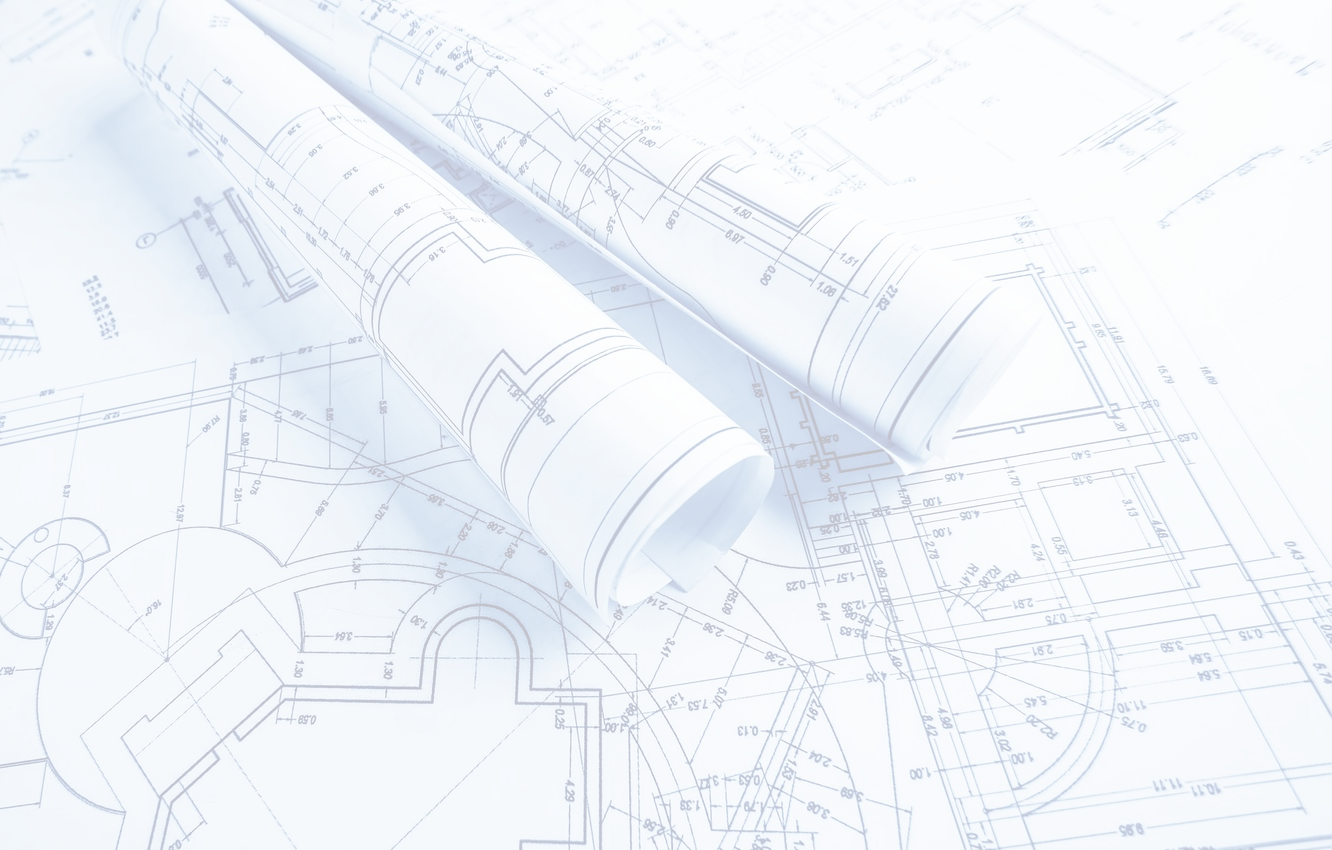
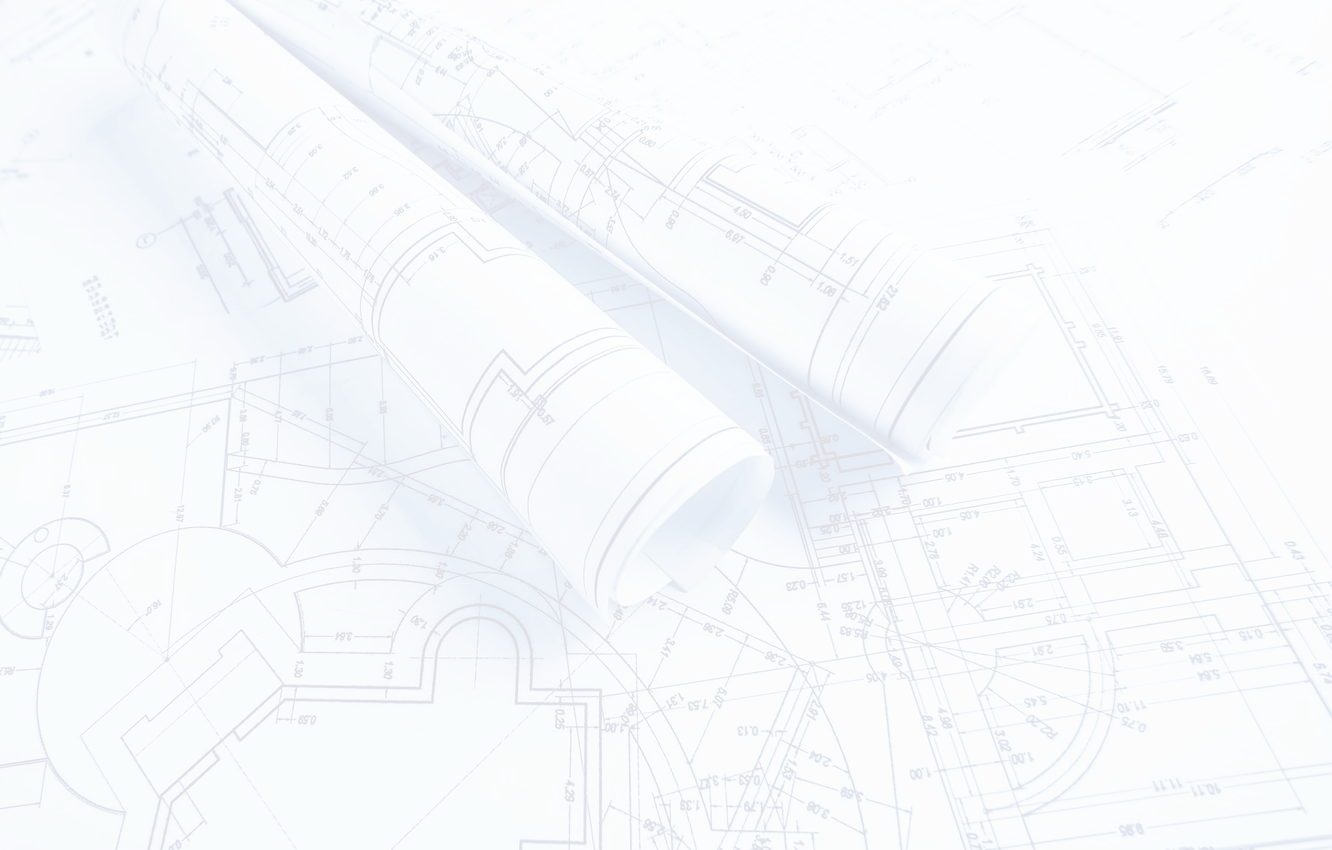
fix

diff --git a/src/componetnts/calculations/CalcPipe.js b/src/componetnts/calculations/CalcPipe.js
@@ -1,13 +1,16 @@
-import React, { useState, useEffect } from "react";
+import React, { useState } from "react";
 import { ScrollView, View, Text, Image, TextInput, StyleSheet } from 'react-native';
 
-import { COLOR, STYLES, TEXT } from '../../types/theme'
+import { COLOR, STYLE, TEXT } from '../../styles'
 
 export default function CalcPipe() {
 
    const [dia, setDia] = useState(null);
    const [thin, setThin] = useState(null);
    const [value1, setValue1] = useState('-');
+   const [value2, setValue2] = useState('-');
+   const [value3, setValue3] = useState('-');
+   const [value4, setValue4] = useState('-');
 
    const setDiaHandler = (dia) => {
       setDia(dia);
@@ -20,16 +23,39 @@ export default function CalcPipe() {
    };
 
    const calc = (dia, thin) => {
-      let val1 = (Math.PI * ((+dia / 10) ** 4 - (+dia / 10 - 2 * (+thin / 10)) ** 4) / 64).toFixed(0);
-      if (val1 <= 0 || isNaN(val1)) val1 = '-'
-      setValue1(val1);
 
+      let val1 = (Math.PI * ((+dia / 10) ** 4 - (+dia / 10 - 2 * (+thin / 10)) ** 4) / 64).toFixed(0);
+      let val2 = (Math.PI * ((+dia / 10) ** 2 - (+dia / 10 - 2 * (+thin / 10)) ** 2) / 4).toFixed(2);
+      let val3 = (Math.PI * ((+dia / 10) ** 4 - (+dia / 10 - 2 * (+thin / 10)) ** 4) / 32 / (+dia)).toFixed(2);
+      let val4 = ((val1 / val2) ** 0.5).toFixed(2);
+
+      if (+dia <= +thin || isNaN(+dia) || isNaN(+thin) || +dia === 0 || +thin === 0) {
+         val1 = val2 = val3 = val4 = '-';
+      };
+
+      setValue1(val1);
+      setValue2(val2);
+      setValue3(val3);
+      setValue4(val4);
+   };
+
+   const Row = ({ text, value }) => {
+      return (
+         <View style={STYLE.ROW}>
+            <View style={{ width: '75%' }}>
+               <Text>{text}</Text>
+            </View>
+            <View style={{ ...STYLE.CENTER, width: '25%' }}>
+               <Text>{value}</Text>
+            </View>
+         </View>
+      );
    };
 
    return (
       <ScrollView>
-         <View style={STYLES.CONTAINER}>
-            <Text style={TEXT.HEADER}>Расчёт характеристик трубы</Text>
+         <View style={STYLE.CONTAINER}>
+            <Text style={TEXT.HEADER}>Исходные данные</Text>
             <Image source={require('../../../assets/calculations/pipe.png')} style={{ width: 200, height: 150, resizeMode: 'contain' }} />
             <View>
                <Text>Введите наружный диаметр трубы в мм (D)</Text>
@@ -52,12 +78,12 @@ export default function CalcPipe() {
                   onChangeText={setThinHandler}
                />
             </View>
-            <View>
-               <Text> Геометрические характеристики трубы:</Text>
-               <View style={STYLES.ROW}>
-                  <Text>Момент инерции J (см4)</Text>
-                  <Text>{value1}</Text>
-               </View>
+            <View style={styles.center}>
+               <Text style={TEXT.HEADER}>Результаты расчёта</Text>
+               <Row text='Момент инерции J (см4)' value={value1} />
+               <Row text='Площадь сечения А (см2)' value={value2} />
+               <Row text='Момент сопроитивления W (см3)' value={value3} />
+               <Row text='Радиус инерции i (см)' value={value4} />
             </View>
          </View>
       </ScrollView>

diff --git a/src/screens/HomeScreen.js b/src/screens/HomeScreen.js
@@ -1,36 +1,36 @@
 import React, { } from "react";
-import { ImageBackground, View, Text, Button, StyleSheet, TouchableOpacity } from "react-native";
+import { View, Text, StyleSheet, TouchableOpacity, useWindowDimensions } from "react-native";
 import { SafeAreaView } from "react-native-safe-area-context";
 import { FontAwesome5 } from '@expo/vector-icons';
-import { COLOR, FONT, STYLES, TEXT, TEXT_STYLES } from "../types/theme";
+import { COLOR, STYLE, TEXT } from "../styles";
+import Background from "../componetnts/Background";
 
 export default function HomeScreen({ navigation }) {
+   const width = useWindowDimensions().width * 0.9;
    return (
-      <SafeAreaView style={STYLES.CONTAINER}>
-         <Text style={TEXT.HEADER}>Добро пожаловать!</Text>
-         <Text style={styles.text}>Перечень расчётов:</Text>
-         <View style={styles.row}>
-            <Text>1. Расчёт характеристик трубы</Text>
-            <TouchableOpacity onPress={() => navigation.navigate('Калькулятор трубы')}>
-               <FontAwesome5 name="arrow-alt-circle-right" size={24} color="black" />
-            </TouchableOpacity>
-         </View>
-         <Text style={styles.textSmall}>   В данный момент мы пополняем библиотеку расчётов. С радостью прислушаемся к вашим пожеланиям. Связь с нами на вкладке Info</Text>
-      </SafeAreaView>
+      <Background>
+         <SafeAreaView style={{ ...STYLE.CONTAINER, paddingBottom: 10 }}>
+            <Text style={TEXT.HEADER}>Добро пожаловать!</Text>
+            <Text>Перечень расчётов:</Text>
+            <View style={{ ...STYLE.ROW, ...styles.row, width }}>
+               <Text>1. Расчёт характеристик трубы</Text>
+               <TouchableOpacity onPress={() => navigation.navigate('Калькулятор трубы')} style={{ width: 24 }}>
+                  <FontAwesome5 name="arrow-alt-circle-right" size={24} color="black" />
+               </TouchableOpacity>
+            </View>
+            <Text style={styles.textSmall}>   В данный момент мы пополняем библиотеку расчётов. С радостью прислушаемся к вашим пожеланиям. Связь с нами на вкладке Info</Text>
+         </SafeAreaView>
+
+      </Background>
    );
 }
 
 const styles = StyleSheet.create({
    row: {
-      flexDirection: 'row',
-      width: '100%',
-      alignItems: 'center',
-      padding: 10,
-      justifyContent: 'space-between',
-      borderBottomWidth: 1
-   },
-   text: {
-      paddingBottom: 10
+      borderBottomWidth: 1,
+      borderBottomColor: COLOR.MAIN,
+      margin: 10,
+      padding: 5
    },
    textSmall: {
       fontSize: 12

diff --git a/src/screens/AboutScreen.js b/src/screens/AboutScreen.js
@@ -1,37 +1,25 @@
 import React from "react";
-import { View, Text, Image, StyleSheet } from 'react-native';
-import { COLOR, FONT } from "../types/theme";
+import { Text, Image, StyleSheet } from 'react-native';
 import { SafeAreaView } from "react-native-safe-area-context";
+import Background from "../componetnts/Background";
+import { SOURCE, STYLE, TEXT } from "../styles";
 
-export default function AboutScreen({ navigation }) {
+export default function AboutScreen() {
 
    return (
-      <SafeAreaView style={styles.container}>
-         <View style={{ alignItems: 'center' }}>
-            <Image source={require('../../assets/986_logo.png')} style={styles.logo}></Image>
-            <Text style={styles.text}>Все вопросы и пожелания присылать по адресу:</Text>
-            <Text style={styles.textBold}>dev.986.team@gmail.com</Text>
-         </View>
-         <Text style={styles.text}>Версия 1.0.0</Text>
-      </SafeAreaView>
+      <Background>
+         <SafeAreaView style={STYLE.CONTAINER}>
+            <Text style={TEXT.HEADER}>Информация о приложении</Text>
+            <Image source={SOURCE.LOGO} style={styles.logo}></Image>
+            <Text>Все вопросы и пожелания присылать по адресу:</Text>
+            <Text style={TEXT.BOLD}>dev.986.team@gmail.com</Text>
+         </SafeAreaView>
+         <Text>Версия 1.0.0</Text>
+      </Background>
    );
 }
 
 const styles = StyleSheet.create({
-   container: {
-      flex: 1,
-      alignItems: 'center',
-      justifyContent: 'space-between',
-      backgroundColor: COLOR.BACKGROUND,
-      padding: 10
-   },
-   text: {
-      textAlign: 'center',
-      fontFamily: FONT.REGULAR
-   },
-   textBold: {
-      fontFamily: FONT.BOLD
-   },
    logo: {
       width: 200,
       height: 200

diff --git a/src/AppNavigation.js b/src/AppNavigation.js
@@ -13,7 +13,7 @@ import HomeScreen from './screens/HomeScreen';
 import FavoriteScreen from './screens/FavoriteScreen';
 import CalcPipe from './componetnts/calculations/CalcPipe';
 
-import { COLOR } from './types/theme';
+import { COLOR } from './styles';
 import { SafeAreaProvider } from 'react-native-safe-area-context';
 
 const Stack = createNativeStackNavigator();
@@ -22,7 +22,7 @@ const Tab = createMaterialBottomTabNavigator();
 function HomeTabs() {
    return (
       <Tab.Navigator initialRouteName='Home'
-         screenOptions={({ route, color }) => ({
+         screenOptions={({ route }) => ({
             tabBarIcon: ({ color, size }) => {
                let iconName;
                if (route.name === 'Главная') {
@@ -48,7 +48,6 @@ function HomeTabs() {
          <Tab.Screen name='Избранные' component={FavoriteScreen} />
          <Tab.Screen name='Инфо' component={AboutScreen} />
       </Tab.Navigator >
-
    );
 }
 
@@ -60,7 +59,6 @@ export default function AppNavigation() {
          <NavigationContainer >
             <Stack.Navigator initialRouteName='Перечень расчетов'
                screenOptions={{
-                  backgroundColor: '#ffffff',
                   headerStyle: {
                      backgroundColor: COLOR.MAIN
                   },

diff --git a/src/styles.js b/src/styles.js
@@ -16,21 +16,27 @@ export const TEXT = {
    HEADER: {
       fontFamily: FONT.BOLD,
       fontSize: 20,
-      marginBottom: 20
+      marginBottom: 10
+   },
+   BOLD: {
+      fontFamily: FONT.BOLD
+   },
+   REGULAR: {
+      fontFamily: FONT.REGULAR
    }
 }
 
-export const STYLES = {
+export const STYLE = {
+   WRAPPER: {
+      flex: 1,
+      alignItems: 'center',
+      justifyContent: 'center'
+   },
    CONTAINER: {
       flex: 1,
       alignItems: 'center',
       justifyContent: 'flex-start',
-      padding: 25
-   },
-   GLOBALCONTAINER: {
-      flex: 1,
-      alignItems: 'center',
-      justifyContent: 'center'
+      padding: 25,
    },
    ROW: {
       flexDirection: 'row',
@@ -38,6 +44,16 @@ export const STYLES = {
    },
    BACKGROUND: {
       width: '100%',
-      height: '100%'
+      height: '100%',
+      alignItems: 'center',
+      resizeMode: 'repeat'
+   },
+   CENTER: {
+      alignItems: 'center'
    }
-}
+};
+
+export const SOURCE = {
+   BGIMAGE: require('../assets/background.png'),
+   LOGO: require('../assets/986_logo.png')
+};

diff --git a/src/screens/FavoriteScreen.js b/src/screens/FavoriteScreen.js
@@ -1,13 +1,17 @@
 import React from "react";
-import { Button, Text, View, StyleSheet } from 'react-native';
+import { Text } from 'react-native';
 import { SafeAreaView } from "react-native-safe-area-context";
-import { STYLES } from "../types/theme";
+import Background from "../componetnts/Background";
+import { STYLE, TEXT } from "../styles";
 
 export default function FavoriteScreen() {
 
    return (
-      <SafeAreaView style={STYLES.CONTAINER}>
-         <Text>Здесь представлен список избранных расётов</Text>
-      </SafeAreaView>
+      <Background>
+         <SafeAreaView style={STYLE.CONTAINER}>
+            <Text style={TEXT.HEADER}>Избранные расчёты</Text>
+            <Text>Здесь представлен список избранных расётов</Text>
+         </SafeAreaView>
+      </Background>
    );
 }

diff --git a/App.js b/App.js
@@ -2,13 +2,11 @@
 
 import React, { useState } from 'react';
 import AppLoading from 'expo-app-loading';
-import { ImageBackground, View } from 'react-native';
 
 // Компоненты
 
 import bootstrap from './bootstrap';
 import AppNavigation from './src/AppNavigation';
-import { STYLES } from './src/types/theme';
 
 export default function App() {
   const [isReady, setIsReady] = useState(false);
@@ -23,10 +21,6 @@ export default function App() {
   }
 
   return (
-    <View style={STYLES.GLOBALCONTAINER}>
-      <ImageBackground source={require('./assets/background.png')} style={STYLES.BACKGROUND}>
-        <AppNavigation />
-      </ImageBackground>
-    </View>
+    <AppNavigation />
   );
 }

diff --git a/src/componetnts/Background.js b/src/componetnts/Background.js
@@ -1,0 +1,13 @@
+import React from "react";
+import { View, ImageBackground } from "react-native";
+import { SOURCE, STYLE } from "../styles";
+
+export default function Background({ children }) {
+   return (
+      <View style={STYLE.WRAPPER}>
+         <ImageBackground source={SOURCE.BGIMAGE} style={STYLE.BACKGROUND}>
+            {children}
+         </ImageBackground>
+      </View>
+   );
+};
